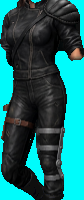
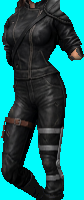
Leathers of the Road Warrior: slimmed to the doll silhouette (pauldron and holster kept), leftover arm on the male sleeve filled with leather, ankles cut straight
Claude-Session: https://claude.ai/code/session_0181Jni9kZvd4mFTeovm6zfw

diff --git a/Tools/suit_fit_to_doll.py b/Tools/suit_fit_to_doll.py
@@ -1,0 +1,32 @@
+import sys; sys.path.insert(0,'/tmp/rw'); from comp import *
+import numpy as np
+from scipy import ndimage as nd
+from PIL import Image
+def mask_of(im):
+    a=np.array(im); return ~((a[...,0]<40)&(a[...,1]>200)&(a[...,2]>200))
+def fitclip(k,pre,boff,box,hands,waist,ankle=None,src=None):
+    a=np.array(Image.open(src or f'rw3_{k}.png').convert('RGB')).astype(int); H,W=a.shape[:2]
+    C=np.zeros((440,260),bool)
+    Bm=mask_of(bm(pre+'bod')); C[boff[1]:boff[1]+Bm.shape[0],boff[0]:boff[0]+Bm.shape[1]]|=Bm
+    for n,(x,y) in hands:
+        m=mask_of(bm(pre+n)); C[y:y+m.shape[0],x:x+m.shape[1]]|=m
+    body=C[box[1]:box[1]+H,box[0]:box[0]+W]
+    YY,XX=np.mgrid[0:H,0:W]
+    d1=nd.binary_dilation(body,iterations=1); d2=nd.binary_dilation(body,iterations=2); d4=nd.binary_dilation(body,iterations=4); d6=nd.binary_dilation(body,iterations=6)
+    r,g,b=a[...,0],a[...,1],a[...,2]
+    key=(r<20)&(g>230)&(b>230)
+    brown=~key&(r-b>25)&(r-g>8)&(r-g<45)&(YY>=waist-5)
+    allow=np.where(YY<45,d4,np.where(YY<waist,d2,d1))|(brown&d6)
+    red=~key&(r>1.45*g+8)&(YY<waist+10)
+    red=nd.binary_dilation(red,iterations=1)&~key&(YY<waist+10)&(r>g+6)
+    lum=0.3*r+0.59*g+0.11*b; v=np.clip(lum*0.6,18,70)
+    a[red]=np.stack([v*1.03,v,v*0.96],-1)[red]
+    a[~allow&~key]=(0,252,252)
+    m=~((a[...,0]<20)&(a[...,1]>230))
+    if ankle is not None:
+        m&=~ankle(XX,YY)
+        m=np.where(YY>195,nd.binary_opening(m,np.ones((3,3))),m)
+    a[~m]=(0,252,252)
+    lab,n=nd.label(m); sz=nd.sum(m,lab,range(1,n+1)); keep=lab==(np.argmax(sz)+1)
+    a[m&~keep]=(0,252,252)
+    return a
